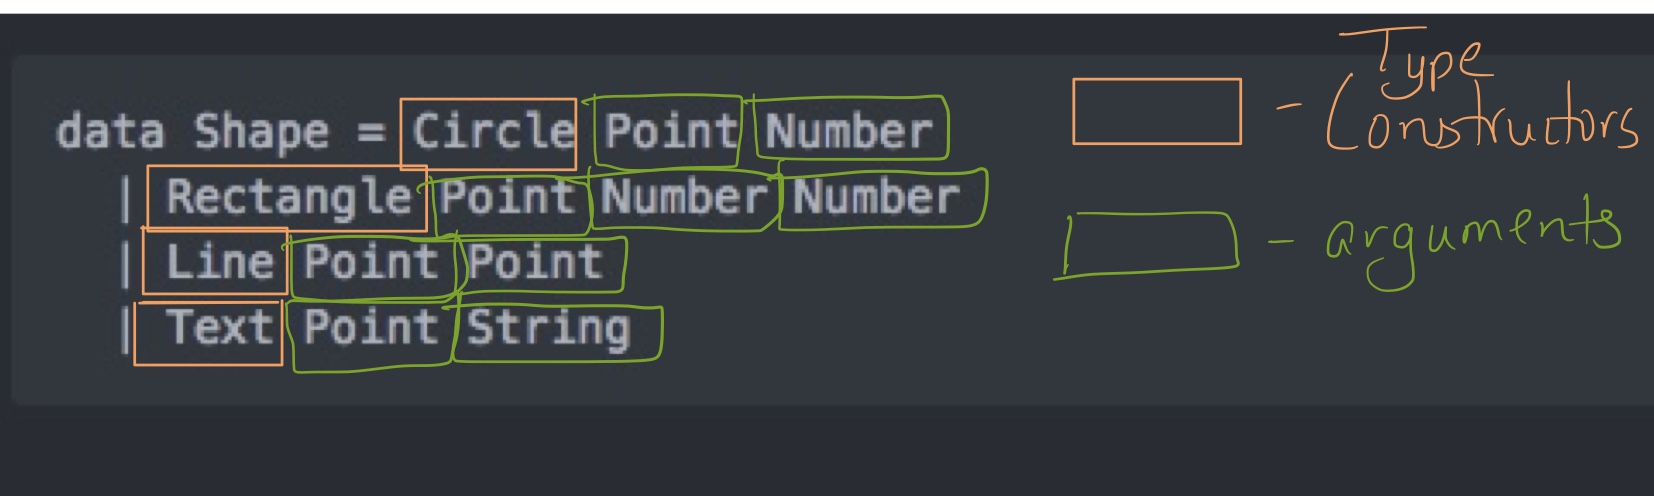
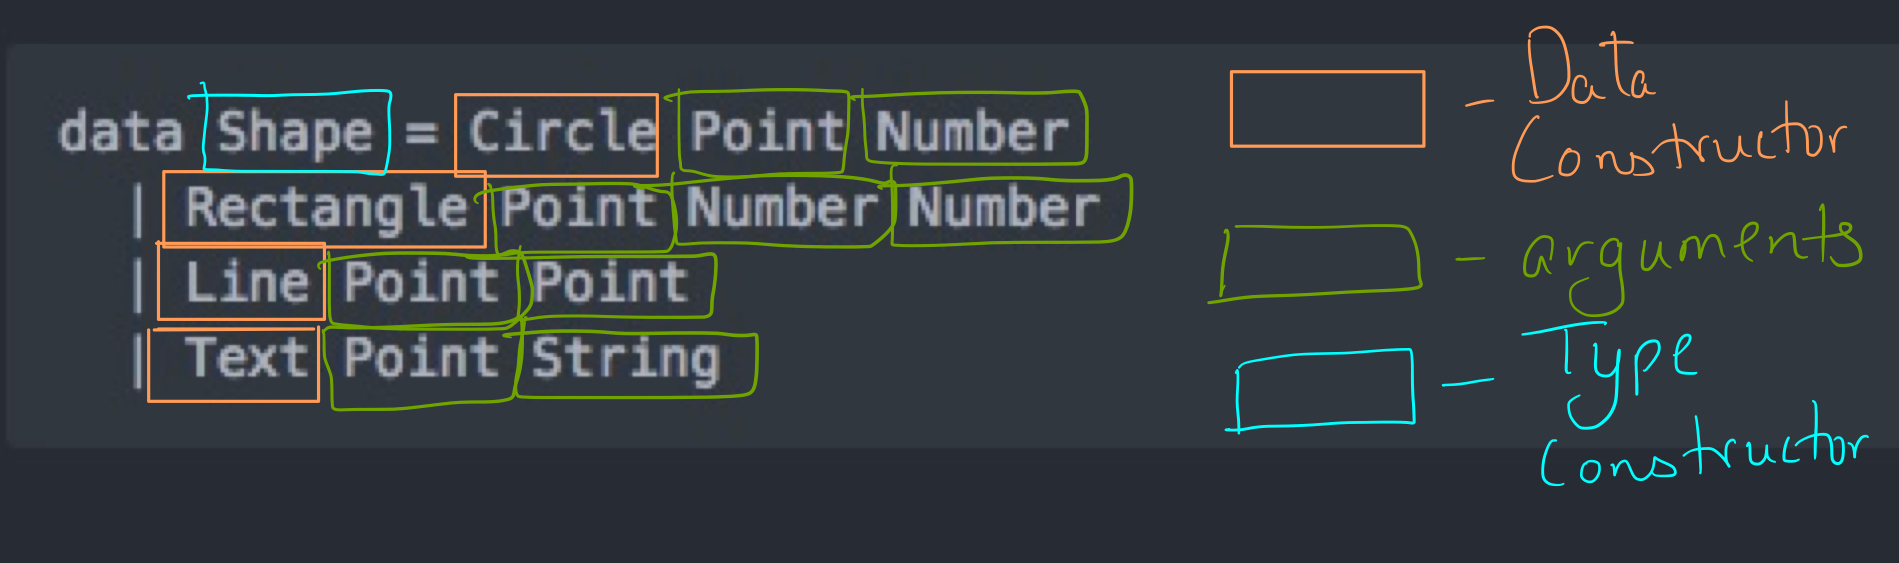
Fixed images, type -> data

diff --git a/2_GuideThroughTheBook/0_ConceptChunks/3_adt/README.md b/2_GuideThroughTheBook/0_ConceptChunks/3_adt/README.md
@@ -8,7 +8,7 @@ data Shape = Circle Point Number
 
 data Point = Point { x :: Number, y :: Number}
 ```
-![](https://i.imgur.com/nSTjL33.jpg)
+![Imgur](https://i.imgur.com/RcPSQTn.jpg)
 
 * "Shape" is the name of the ADT
 * Type Constructors can have any name, including the same name as the ADT but both live in different name spaces
@@ -47,7 +47,7 @@ showPoint :: Point -> String
 showPoint (Point {x, y}) = "Point : x=" <> (show x) <> ", y=" <> (show y)
 ```
 
-![](https://i.imgur.com/hudD3Qt.png)
+![Imgur](https://i.imgur.com/xPOoTfJ.jpg)
 
 #### Short Detour - Record Puns
 
@@ -73,7 +73,7 @@ showShape (Line p0@(Point {x:x0, y:y0}) p1@(Point {x:x1, y:y1})) = "Line, " <> (
 showShape (Text p@(Point {x,y}) text) = "Text, " <> (showPoint p) <> ", Text: " <> text
 ```
 
-![Imgur](https://i.imgur.com/s7Ienrg.jpg)
+![Imgur](https://i.imgur.com/tRVlzWk.jpg)
 
 #### Make sure you match all possible type constructors. Else we get an error
 
